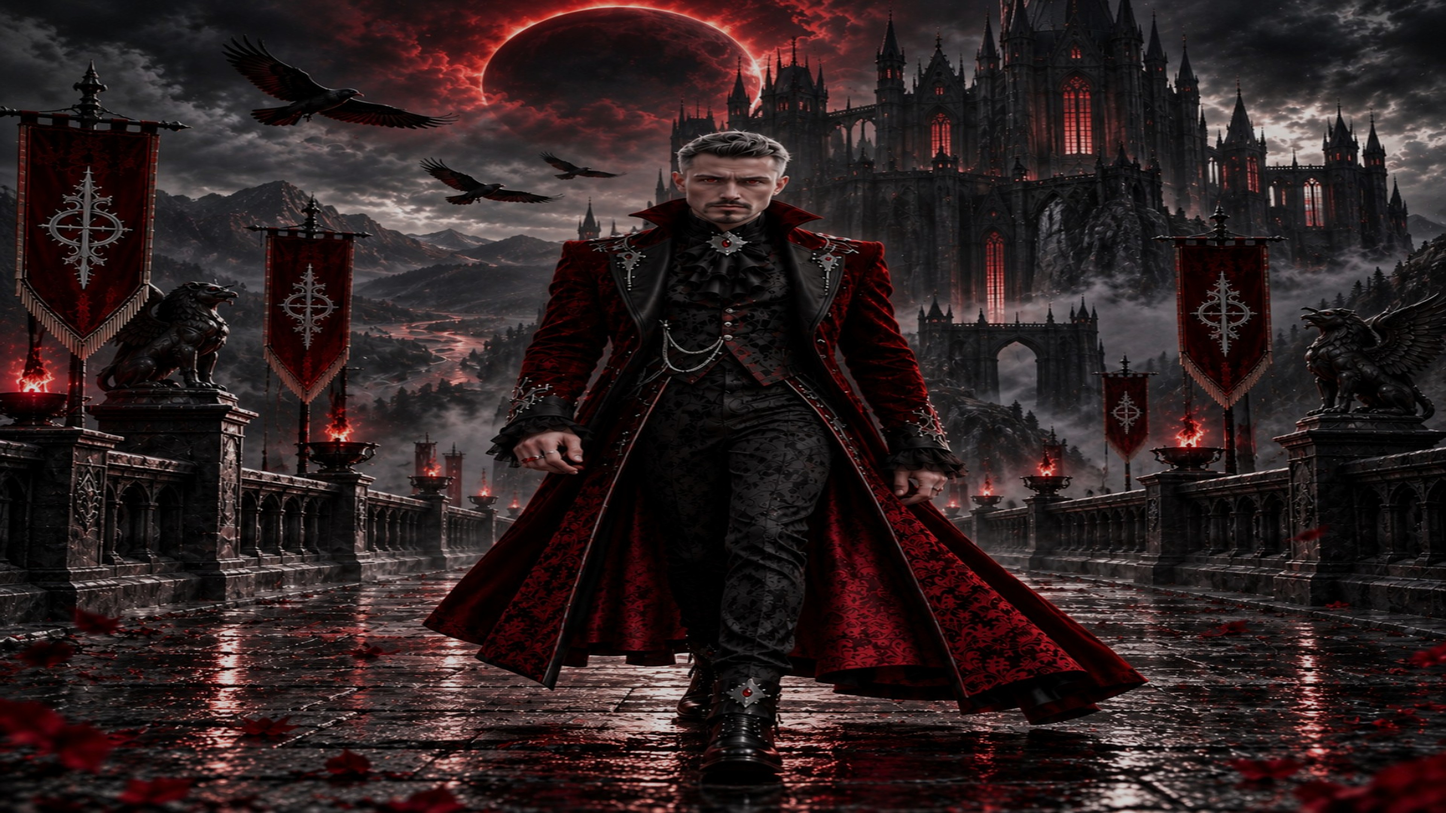
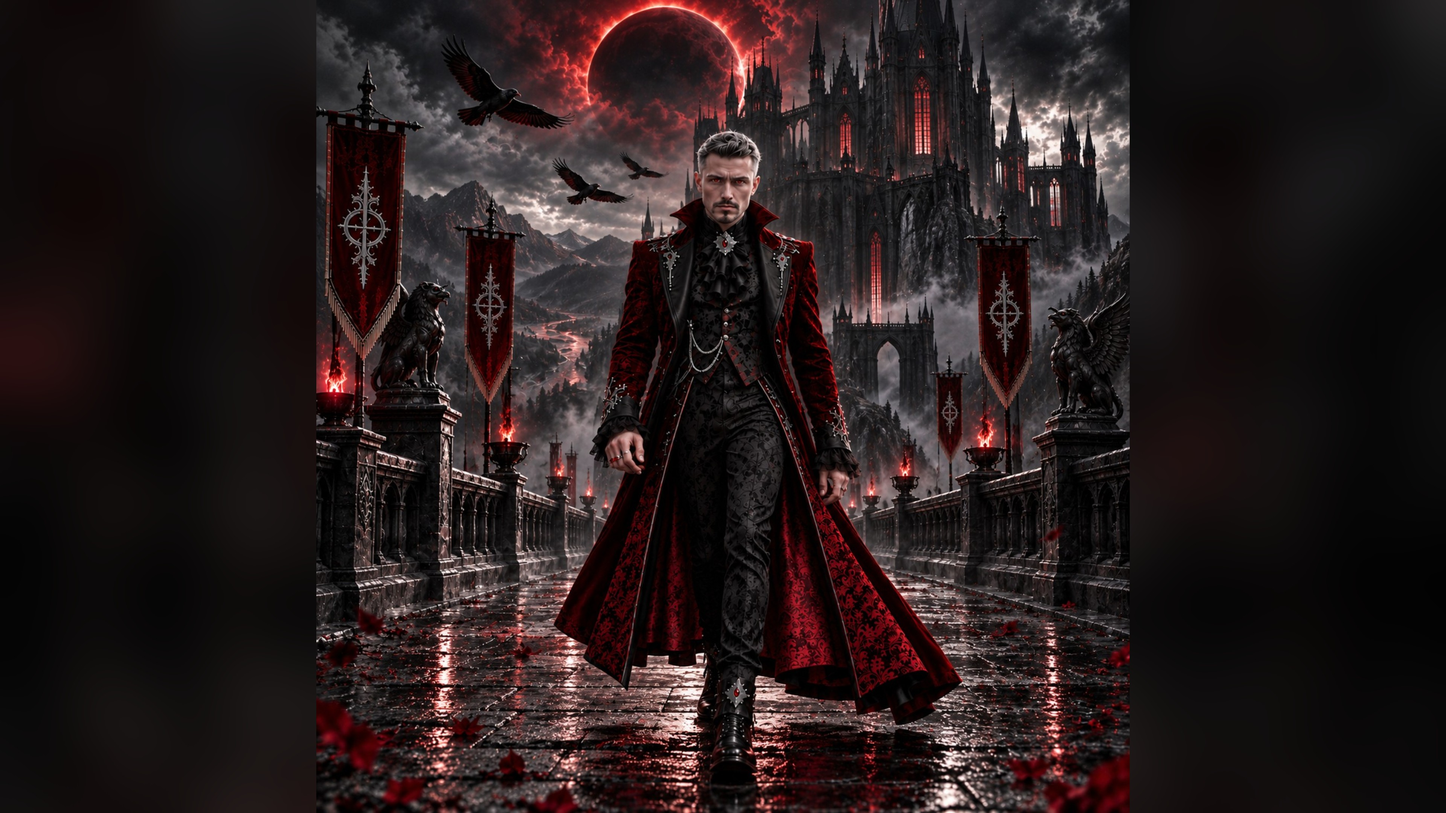
Add files via upload

diff --git a/index.html b/index.html
@@ -34,17 +34,42 @@ h1{color:#e8e1e4;-webkit-text-stroke:.7px #6d5962;text-shadow:0 2px 1px #160b13,
 .cover{background:#130d13 url('ep-cover-placeholder.jpg') center/cover}
 .cover img{width:100%;height:100%;object-fit:cover;display:block}
 @media(prefers-reduced-motion:reduce){.bird-shape,.raven{animation:none!important}}
+
+/* Two-stage entrance: true aspect ratios, never stretch imagery */
+body.portal-active{overflow:hidden}
+.portal{position:fixed;inset:0;z-index:999;display:grid;place-items:center;background:#060409;overflow:hidden;transition:opacity 1.1s ease,visibility 1.1s}
+.portal::before{content:"";position:absolute;inset:-3%;background:url('gavran-portal.jpg') center/cover no-repeat;filter:blur(45px) brightness(.23);transform:scale(1.1)}
+.portal-vignette{position:absolute;inset:0;background:radial-gradient(circle at center,transparent 12%,#060409 80%);pointer-events:none}
+.portal-enter{position:relative;display:flex;flex-direction:column;align-items:center;justify-content:center;gap:12px;border:0;background:transparent;color:#e7d7db;cursor:pointer;padding:22px;max-width:min(88vw,680px);letter-spacing:.22em;text-shadow:0 0 20px #b62b43}
+.portal-enter img{width:min(72vw,490px);max-height:68svh;object-fit:contain;filter:drop-shadow(0 0 22px #7d102b);animation:portal-pulse 6s ease-in-out infinite}
+.portal-enter span{font-size:clamp(12px,2.4vw,19px);font-weight:700}
+.portal-enter small{font-size:10px;opacity:.75;letter-spacing:.17em}
+.portal-enter:focus-visible{outline:2px solid #ee8096}
+.portal.is-entered{opacity:0;visibility:hidden;pointer-events:none}
+@keyframes portal-pulse{0%,100%{filter:drop-shadow(0 0 12px #621024)}50%{filter:drop-shadow(0 0 32px #b72a4e)}}
+@media(prefers-reduced-motion:reduce){.portal-enter img{animation:none}.portal{transition:none}}
 </style>
 </head>
-<body>
-<header><nav><a class="brand" href="#home">GAVR4N</a><div class="navlinks"><a href="#music">Music</a><a href="#about">About</a><a href="#connect">Connect</a><a href="https://www.youtube.com/results?search_query=GAVR4N+music" target="_blank" rel="noopener">YouTube</a></div></nav></header>
+<body class="portal-active">
+<div id="portal" class="portal" role="dialog" aria-modal="true" aria-label="Enter the GAVR4N world">
+  <div class="portal-vignette"></div>
+  <button class="portal-enter" id="portal-enter" type="button" aria-label="Enter GAVR4N website">
+    <img src="gavran-portal.jpg" alt="GAVR4N emblem — enter website" />
+    <span>ENTER THE WORLD OF GAVR4N</span>
+    <small>TOUCH THE SYMBOL TO ENTER</small>
+  </button>
+</div>
+<header><nav><a class="brand" href="#home">GAVR4N</a><div class="navlinks"><a href="#music">Music</a><a href="#about">About</a><a href="#connect">Connect</a><a href="https://www.youtube.com/@gavr4nmusic" target="_blank" rel="noopener">YouTube</a></div></nav></header>
 <main>
 <section class="hero" id="home" aria-label="GAVR4N cinematic castle"><div class="hero-image" aria-hidden="true"></div><div class="red-glow" aria-hidden="true"></div><div class="crimson-aura" aria-hidden="true"></div><div class="violet-shimmer" aria-hidden="true"></div><div class="flash-glint" aria-hidden="true"></div><div class="mist" aria-hidden="true"></div><div class="mist two" aria-hidden="true"></div><div class="raven" aria-hidden="true"><svg class="bird-shape" viewBox="0 0 100 52" aria-hidden="true"><path fill="#06040a" d="M49 27C34 15 18 11 0 7c13 12 20 18 29 20C17 25 9 29 3 34c16-1 27-2 41 3l7 10 6-10c13-5 26-4 40-3-8-6-16-9-27-7C82 24 89 18 100 7 82 11 67 16 54 27l-3 3z"/></svg></div><div class="raven two" aria-hidden="true"><svg class="bird-shape" viewBox="0 0 100 52" aria-hidden="true"><path fill="#06040a" d="M49 27C34 15 18 11 0 7c13 12 20 18 29 20C17 25 9 29 3 34c16-1 27-2 41 3l7 10 6-10c13-5 26-4 40-3-8-6-16-9-27-7C82 24 89 18 100 7 82 11 67 16 54 27l-3 3z"/></svg></div><div class="hero-content"><div class="eyebrow">Official Artist Website</div><h1>GAVR4N</h1><div class="tagline">Dark Cinematic Rock · Darkhouse</div><p>Where darkness becomes sound. Cinematic rock, haunting strings and electronic power.</p><a class="button" href="https://open.spotify.com/artist/0f9VH5RBLLzLs7QUBqhcgq" target="_blank" rel="noopener noreferrer">Listen on Spotify</a><a class="button alt" href="#music">Explore the Music</a></div></section>
 <section class="section reveal" id="music"><h2>Discography</h2><p class="lead">Original releases and Darkhouse interpretations from the world of GAVR4N.</p><div class="grid"><article class="card"><div class="cover"><img src="cover-thunder.jpg" alt="Originalcover der GAVR4N EP" onerror="this.style.display='none';this.parentNode.append(document.createTextNode('THUNDER THE CRIMSON MOON'))"></div><div class="meta">EP</div><h3>Thunder the Crimson Moon</h3><p>Dark cinematic rock and emotional storytelling.</p></article><article class="card"><div class="cover"><img src="cover-under.jpg" alt="Originalcover der GAVR4N EP" onerror="this.style.display='none';this.parentNode.append(document.createTextNode('UNDER THE CRIMSON MOON'))"></div><div class="meta">EP · 16 NOV 2026</div><h3>Under the Crimson Moon</h3><p>Four songs from the GAVR4N cinematic universe.</p></article><article class="card"><div class="cover"><img src="cover-das-schoene-leben.jpg" alt="Originalcover der GAVR4N EP" onerror="this.style.display='none';this.parentNode.append(document.createTextNode('DAS SCHÖNE LEBEN'))"></div><div class="meta">EP</div><h3>Das schöne Leben</h3><p>Personal stories and German-language rock.</p></article></div></section>
 <section class="about reveal" id="about"><div class="about-inner"><h2>The World of GAVR4N</h2><p>GAVR4N combines dark cinematic rock, atmospheric orchestration and modern electronic production. A musical universe of identity, memory, resilience and transformation — from baritone-led originals to hypnotic Darkhouse remixes.</p></div></section>
-<section class="section reveal" id="connect"><h2>Enter the World</h2><p class="lead">Follow GAVR4N and discover the latest releases.</p><div class="links"><a href="https://open.spotify.com/artist/0f9VH5RBLLzLs7QUBqhcgq" target="_blank" rel="noopener noreferrer">Spotify</a><a href="https://www.instagram.com/gavr4n.music/" target="_blank" rel="noopener noreferrer">Instagram</a><a href="https://www.tiktok.com/@gavr4n.music" target="_blank" rel="noopener noreferrer">TikTok</a><a href="https://www.youtube.com/results?search_query=GAVR4N+music" target="_blank" rel="noopener">YouTube</a></div></section>
+<section class="section reveal" id="connect"><h2>Enter the World</h2><p class="lead">Follow GAVR4N and discover the latest releases.</p><div class="links"><a href="https://open.spotify.com/artist/0f9VH5RBLLzLs7QUBqhcgq" target="_blank" rel="noopener noreferrer">Spotify</a><a href="https://www.instagram.com/gavr4n.music/" target="_blank" rel="noopener noreferrer">Instagram</a><a href="https://www.tiktok.com/@gavr4n.music" target="_blank" rel="noopener noreferrer">TikTok</a><a href="https://www.youtube.com/@gavr4nmusic" target="_blank" rel="noopener">YouTube</a></div></section>
 </main><audio id="castle-loop" src="castle-intro-loop.mp3" preload="none" loop></audio><button type="button" class="sound-toggle" id="sound-toggle" aria-pressed="false">♫ SOUND AKTIVIEREN</button><footer>© 2026 GAVR4N · Official Artist Website</footer>
-<script>if('IntersectionObserver' in window){const observer=new IntersectionObserver(entries=>{entries.forEach(entry=>{if(entry.isIntersecting){entry.target.classList.add('visible');observer.unobserve(entry.target)}})},{threshold:.1});document.querySelectorAll('.reveal').forEach(el=>observer.observe(el))}else{document.querySelectorAll('.reveal').forEach(el=>el.classList.add('visible'))}</script>
+<script>
+(function(){const portal=document.getElementById('portal');const enter=document.getElementById('portal-enter');enter.addEventListener('click',()=>{portal.classList.add('is-entered');document.body.classList.remove('portal-active');document.getElementById('home').scrollIntoView({block:'start',behavior:'instant'});});})();
+</script>
+<script>if('IntersectionObserver'  in window){const observer=new IntersectionObserver(entries=>{entries.forEach(entry=>{if(entry.isIntersecting){entry.target.classList.add('visible');observer.unobserve(entry.target)}})},{threshold:.1});document.querySelectorAll('.reveal').forEach(el=>observer.observe(el))}else{document.querySelectorAll('.reveal').forEach(el=>el.classList.add('visible'))}</script>
 <script>
 (function(){const audio=document.getElementById('castle-loop');const button=document.getElementById('sound-toggle');
 button.addEventListener('click',async()=>{if(audio.paused){try{await audio.play();button.textContent='♫ SOUND AUSSCHALTEN';button.setAttribute('aria-pressed','true')}catch(e){button.textContent='♫ SOUND ERNEUT VERSUCHEN'}}else{audio.pause();button.textContent='♫ SOUND AKTIVIEREN';button.setAttribute('aria-pressed','false')}});
